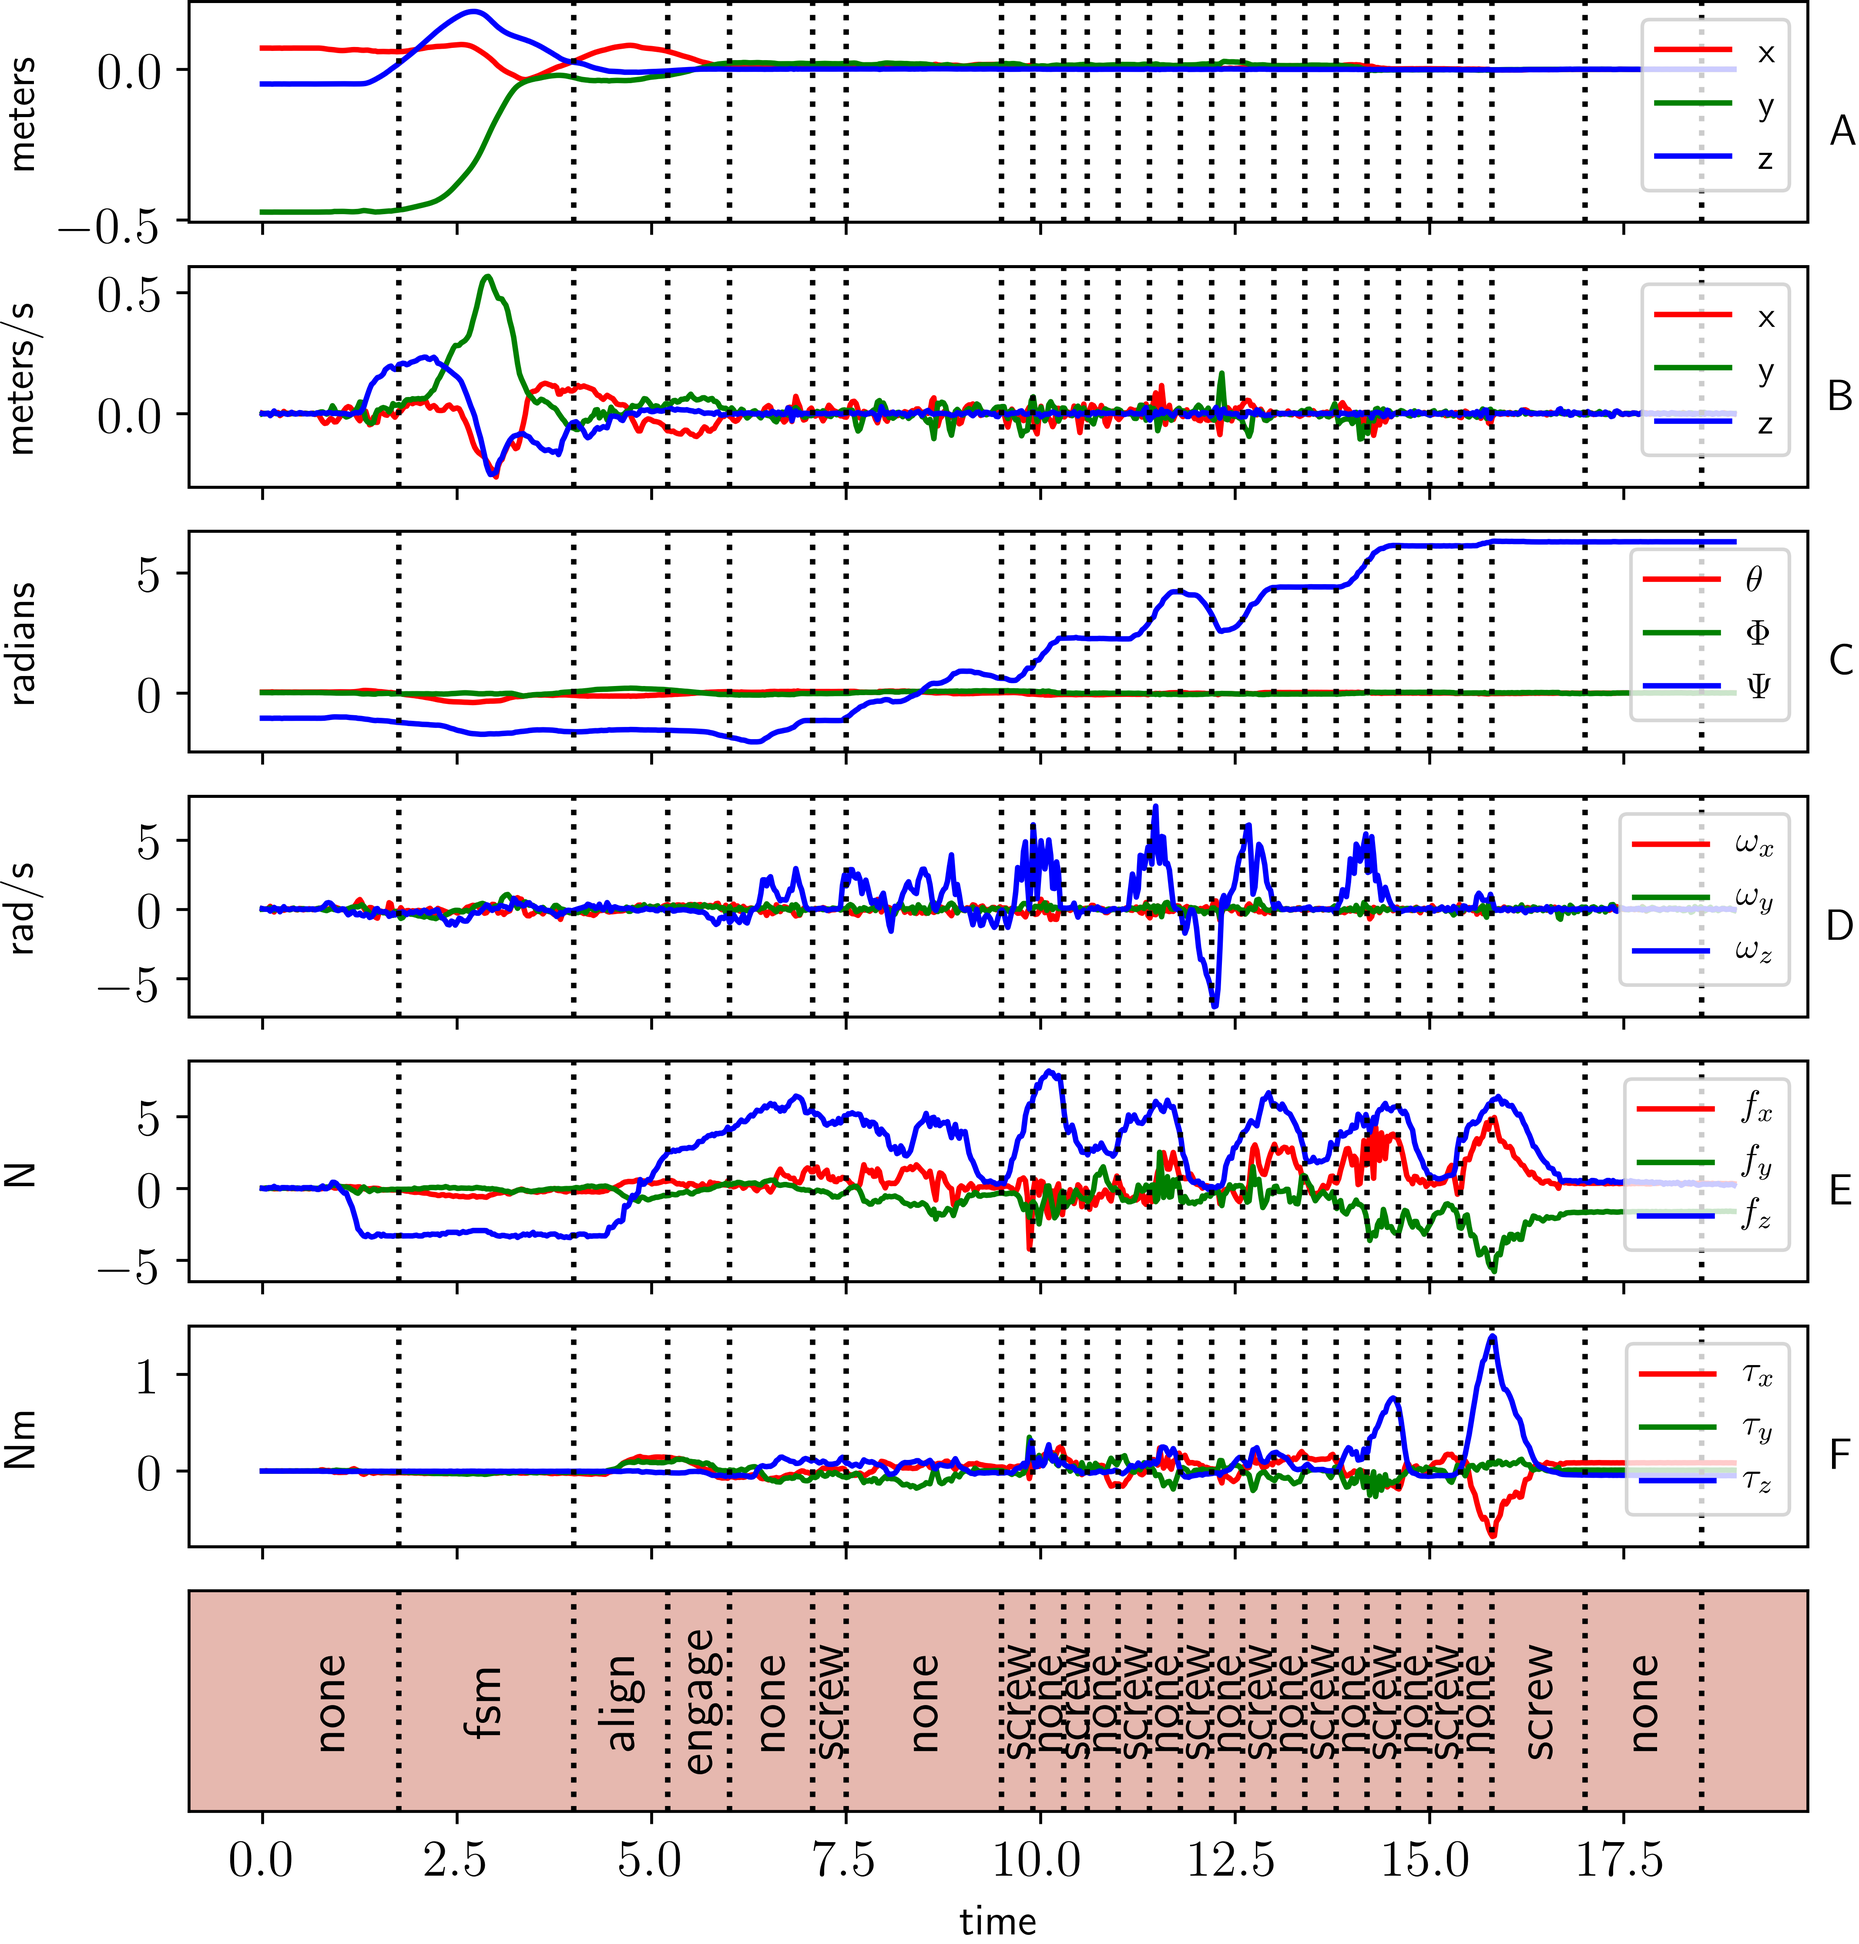
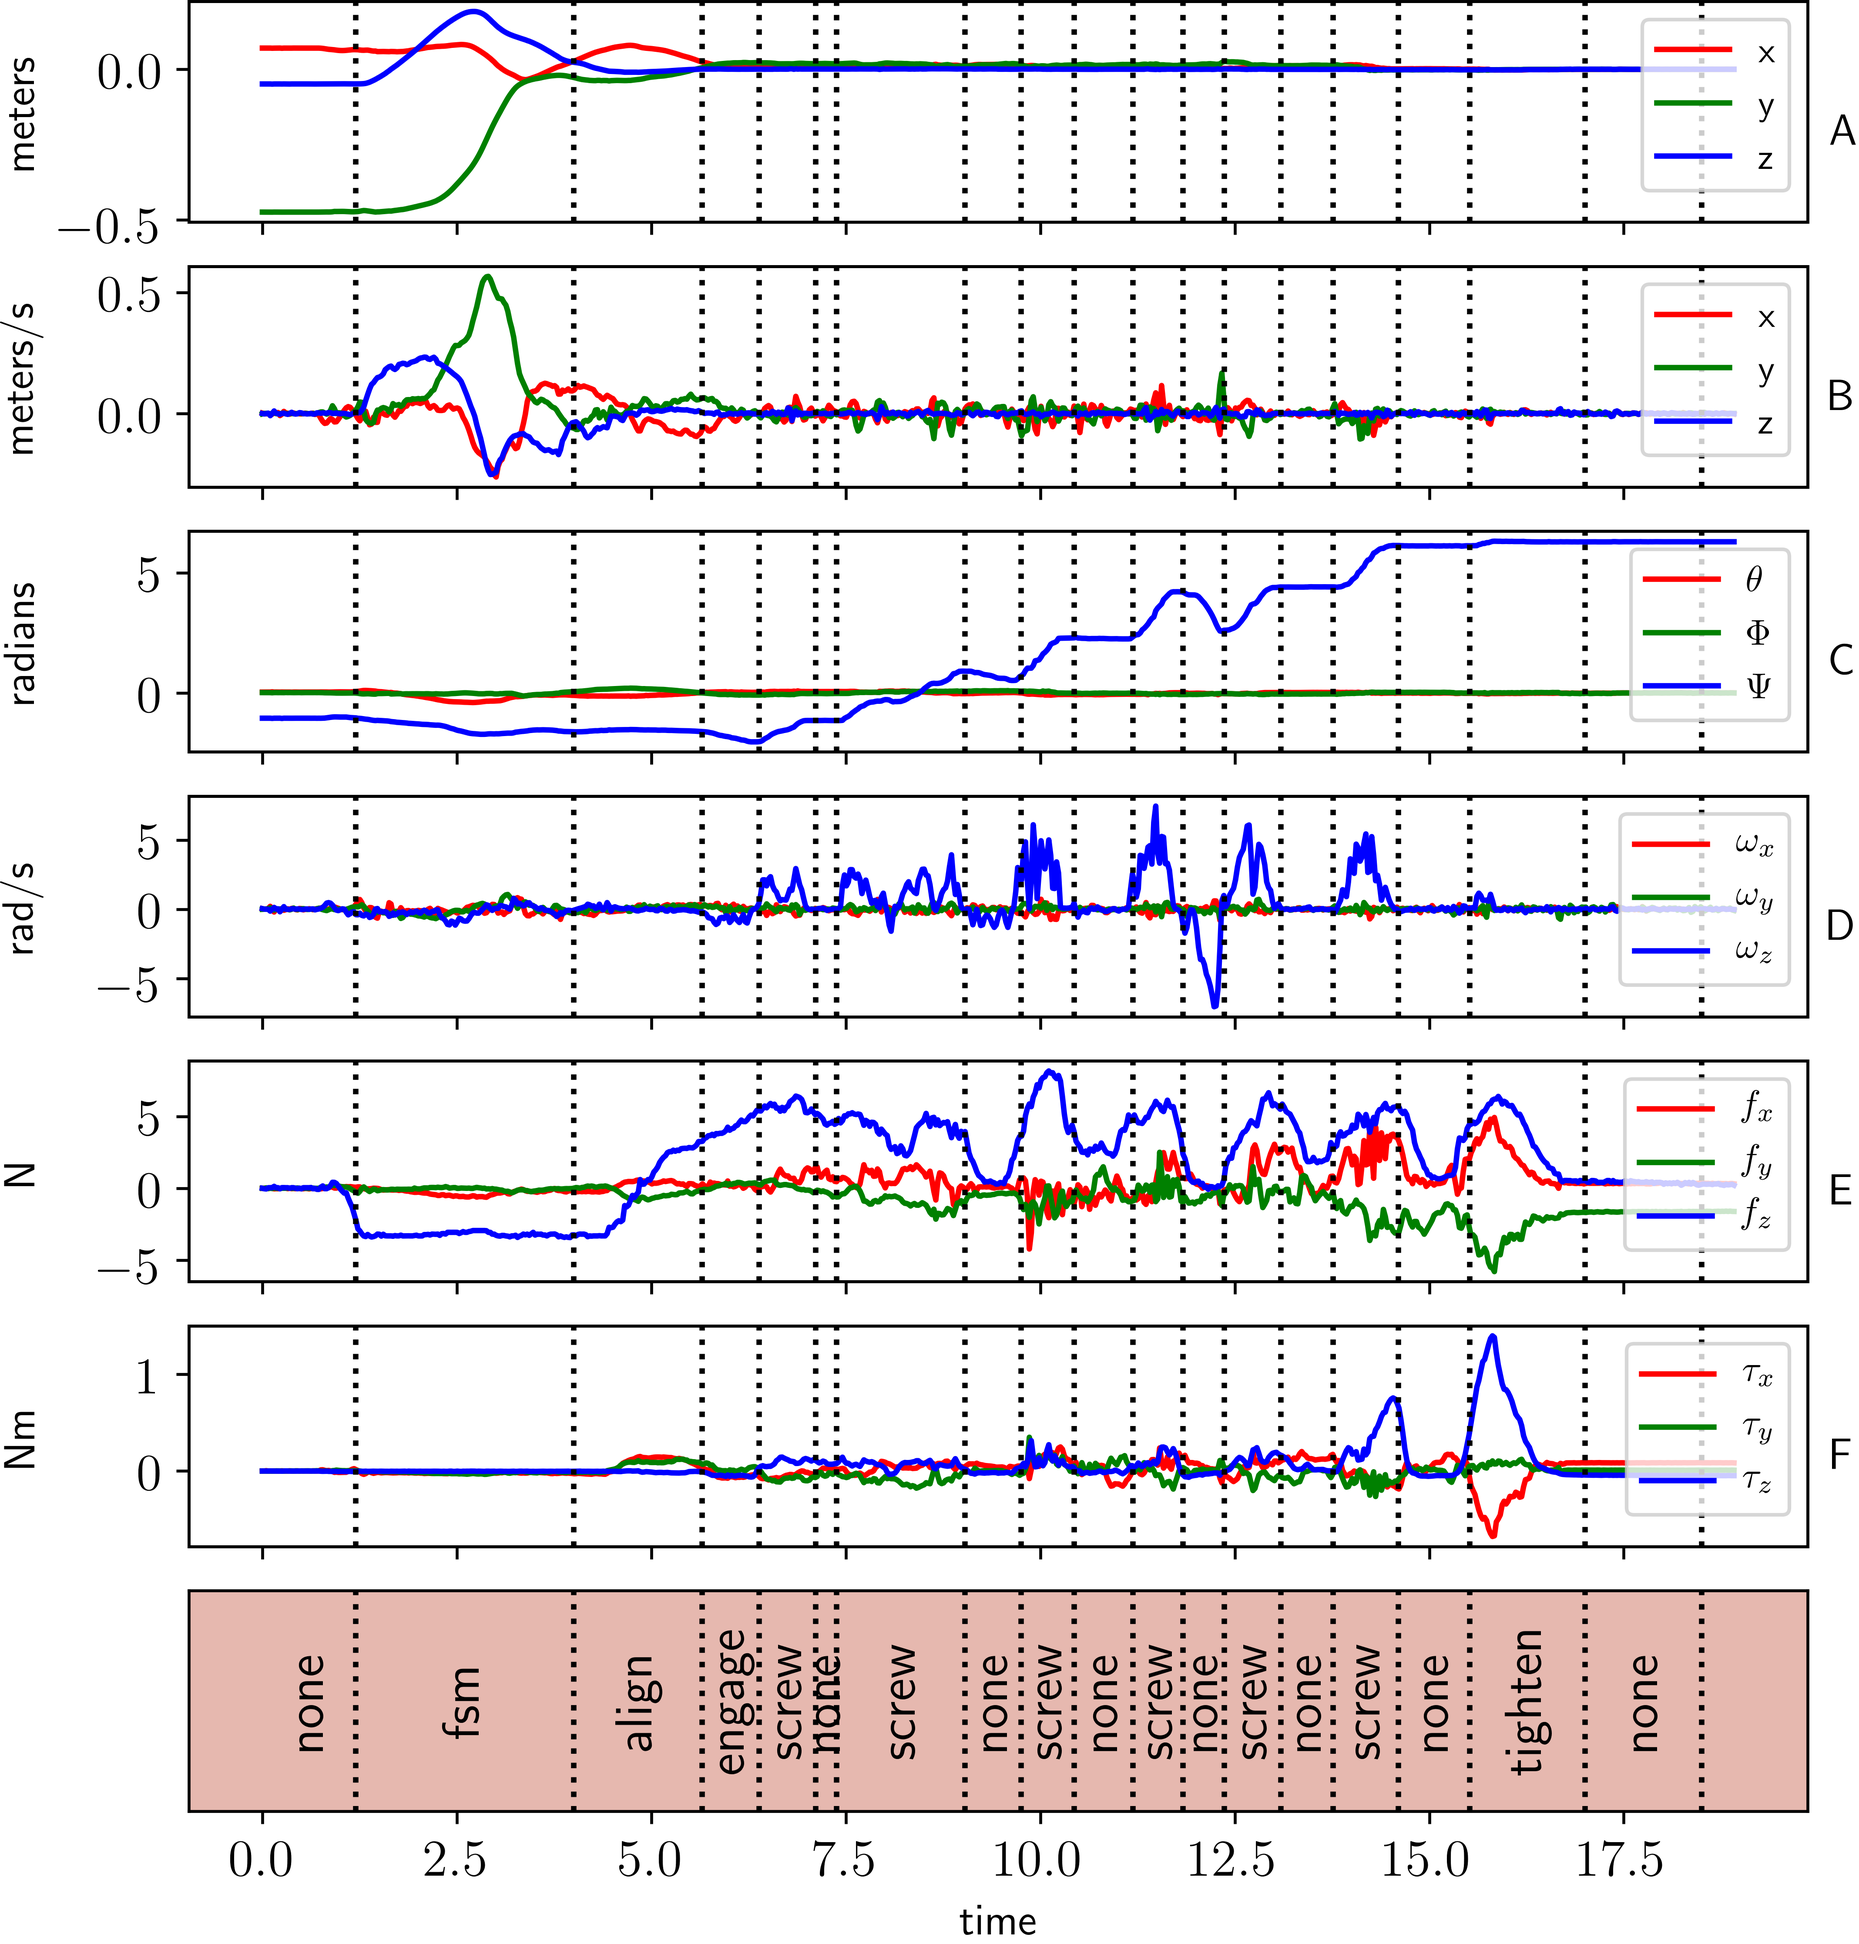
manual labels and plot for run1 pipe

diff --git a/analysis/initialProcessing_rawdata.py b/analysis/initialProcessing_rawdata.py
@@ -89,37 +89,40 @@ def on_plot_hover(event):
 
 if experiment_name == 'pipe':
 	run_number = 1
-	t, p1, vels, euler, omegas, F, M = read_data1('../data/pipe/raw_pipe/run{0:d}_pipe'.format(run_number))
-	fig = plt.figure()
-	# plt = fig.add_subplot(111)
-	plt.plot(t,omegas[:,0],'r',label='$\omega_x$')
-	plt.plot(t,omegas[:,1],'g',label='$\omega_y$')
-	plt.plot(t,omegas[:,2],'b',label='$\omega_z$')
-	# plt.set_ylabel('rad/s')
-	fig.canvas.mpl_connect('motion_notify_event', on_plot_hover)           
-	plt.show()
-
-	# # 2- Choose split times and labels and generate run#_tlabels and run#_prmlabels
-	# vlines=np.array([0.0, 1.6, 4.00, 5.21, 6.00, 7.07, 7.50, 9.50, 
-	# 	9.90, 10.6, 11.4, 12.35, 13.0, 13.8, 14.6, 15.4,
+	# t, p1, vels, euler, omegas, F, M = read_data1('../data/pipe/raw_pipe/run{0:d}_pipe'.format(run_number))
+	# fig = plt.figure()
+	# # plt = fig.add_subplot(111)
+	# plt.plot(t,omegas[:,0],'r',label='$\omega_x$')
+	# plt.plot(t,omegas[:,1],'g',label='$\omega_y$')
+	# plt.plot(t,omegas[:,2],'b',label='$\omega_z$')
+	# # plt.set_ylabel('rad/s')
+	# fig.canvas.mpl_connect('motion_notify_event', on_plot_hover)           
+	# plt.show()
+	# 2- Choose split times and labels and generate run#_tlabels and run#_prmlabels
+	# vlines=np.array([0.0, 1.2, 4.00, 5.65, 6.38,
+	# 	7.11, 7.38, 9.03, 10.43, 11.19, 11.83, 12.36, 13.09, 13.76, 14.60, 15.52, 15.97,
 	# 	17,18.5])
-	# np.savetxt("../data/pipe/raw_pipe/run{0:d}_tlabels".format(run_number),vlines[1:])
-	# labels = [Pr.none, Pr.fsm, Pr.align, Pr.engage, Pr.screw, Pr.none, Pr.screw, 
-	# 	Pr.none, Pr.screw, Pr.none, Pr.screw, Pr.none, Pr.screw, Pr.none, Pr.screw,  
-	# 	Pr.tighten, Pr.none] #17
-	# np.savetxt("../data/pipe/raw_pipe/run{0:d}_prmlabels".format(run_number),[label.value for label in labels])
-	# # 3- make plot to see if the manually selected labels look reasonable
-	# plot_file('../data/pipe/raw_pipe/run{0:d}_pipe'.format(run_number),
-	# 	tlabelfile="../data/pipe/raw_pipe/run{0:d}_tlabels".format(run_number),
-	# 	prlabelfile="../data/pipe/raw_pipe/run{0:d}_prmlabels".format(run_number))
-	# plt.savefig("figures2label/pipe/run{0:d}_raw_labels.png".format(run_number),dpi=600, bbox_inches = 'tight',pad_inches = 0)
-	# plt.close()run_number = 1
-
+	vlines=np.array([0.0, 1.2, 4.00, 5.65, 6.38,
+		7.11, 7.38, 9.03, 9.75, 10.43, 11.19, 11.83, 12.36, 13.09, 13.76, 14.60, 15.52, 
+		17,18.5])
+	np.savetxt("../data/pipe/raw_pipe/run{0:d}_tlabels".format(run_number),vlines[1:])
+	labels = [Pr.none, Pr.fsm, Pr.align, Pr.engage, 
+		Pr.screw, Pr.none, Pr.screw, Pr.none, Pr.screw, Pr.none, Pr.screw, Pr.none, Pr.screw, Pr.none, Pr.screw, Pr.none, 
+		Pr.tighten, Pr.none] #17
+	np.savetxt("../data/pipe/raw_pipe/run{0:d}_prmlabels".format(run_number),[label.value for label in labels])
 	# 3- make plot to see if the manually selected labels look reasonable
-	# plot_file('../data/pipe/raw_pipe/run{0:d}_pipe'.format(run_number),
-	# 	tlabelfile="../data/pipe/raw_pipe/run{0:d}_tlabels".format(run_number),
-	# 	prlabelfile="../data/pipe/raw_pipe/run{0:d}_prmlabels".format(run_number))
-	# plt.savefig("figures2label/pipe/run{0:d}_raw_labels.png".format(run_number),dpi=600, bbox_inches = 'tight',pad_inches = 0)
-	# plt.close()
+	plot_file('../data/pipe/raw_pipe/run{0:d}_pipe'.format(run_number),
+		tlabelfile="../data/pipe/raw_pipe/run{0:d}_tlabels".format(run_number),
+		prlabelfile="../data/pipe/raw_pipe/run{0:d}_prmlabels".format(run_number))
+	plt.savefig("figures2label/pipe/run{0:d}_raw_labels.png".format(run_number),dpi=600, bbox_inches = 'tight',pad_inches = 0)
+	plt.close()
 
 print("patito ha terminado!")
+
+
+
+# process raw data
+
+# interactive plot
+
+# select labels and plot
